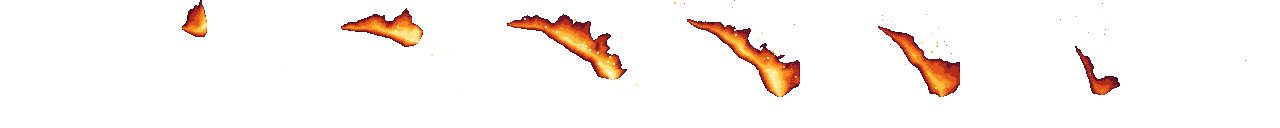
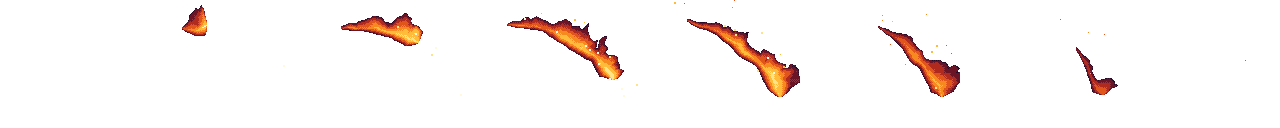
炎の5連撃：打が進むほど太く・熱く・火の粉を増やす

diff --git a/games/farmhouse/pixel/gen_fire_combo.py b/games/farmhouse/pixel/gen_fire_combo.py
@@ -72,7 +72,7 @@ def frame(i, N, P):
     heat = heat + (n - .5) * .35 * (heat > .02) + (n - .5) * .08
     # 上へ舞いあがる炎の舌（弧の上がわ）：弧のうち先頭に近い所から
     tongue = np.clip(1 - np.abs(xx - (CX + R * np.cos(head - .25))) / 22, 0, 1) * np.clip((CY + R * np.sin(head - .25) - yy) / 38, 0, 1) * np.clip(yy / 70, 0, 1) * (1 if t < .45 else 0) * 0
-    heat = np.clip(heat, 0, 1)
+    heat = np.clip(heat * P.get('gain', 1.0), 0, 1)                    # 打が進むほど熱く（白寄り）
     # --- 網点（ディザ）で段階に切る
     q = heat * 7.4 + (BAYER[(yy.astype(int) % 4), (xx.astype(int) % 4)] - .5) * .45
     idx = np.clip(np.floor(q), -1, 7).astype(int)
@@ -121,11 +121,11 @@ def arc_from_points(S, E, bulge):
     if abs(de) < abs(dm) or dm * de < 0: de += 2 * math.pi * (1 if dm > 0 else -1)      # Mを通るほうの向きにする
     return dict(cx=ux, cy=uy, r=r, a0=math.degrees(a_s), a1=math.degrees(a_s + de))
 
-HITS = [
- dict(name="hit1_ななめ下ぎり", half=15, **arc_from_points((20, 30), (140, 102), 30)),
- dict(name="hit2_ななめ下ぎり左", half=15, **arc_from_points((140, 30), (20, 100), 30)),
- dict(name="hit3_横なぎ", half=14, **arc_from_points((150, 88), (10, 72), 24)),
- dict(name="hit4_たて斬り", half=16, **arc_from_points((88, 24), (72, 104), 24)),
+HITS = [   # 打が進むほど、太く・熱く・火の粉が多く・炎の舌が長くなる
+ dict(name="hit1_ななめ下ぎり", half=13, gain=.9, sparks=18, lick=.9, **arc_from_points((20, 30), (140, 102), 30)),
+ dict(name="hit2_ななめ下ぎり左", half=15, gain=.97, sparks=26, lick=1.1, **arc_from_points((140, 30), (20, 100), 30)),
+ dict(name="hit3_横なぎ", half=17, gain=1.05, sparks=36, lick=1.25, **arc_from_points((152, 90), (8, 70), 26)),
+ dict(name="hit4_たて斬り", half=23, gain=1.12, sparks=48, lick=1.5, **arc_from_points((90, 14), (70, 108), 26)),
 ]
 NH = 8
 allf = []
@@ -134,7 +134,7 @@ for h in HITS:
     allf.append(fr)
 # --- 5撃目：しあげ（大きなX字を2本重ねて、中央から衝撃のわ）
 NF = 12
-P1 = dict(half=19, sparks=40, **arc_from_points((20, 28), (140, 106), 30)); P2 = dict(half=19, sparks=0, **arc_from_points((140, 28), (20, 106), 30))
+P1 = dict(half=21, gain=1.12, lick=1.4, sparks=72, **arc_from_points((26, 30), (134, 96), 26)); P2 = dict(half=21, gain=1.12, lick=1.4, sparks=0, **arc_from_points((134, 30), (26, 96), 26))
 x1 = [frame(i, NF, P1) for i in range(NF)]; x2 = [frame(i, NF, P2) for i in range(NF)]
 fin = []
 yy_, xx_ = np.mgrid[0:H, 0:W].astype(float)
